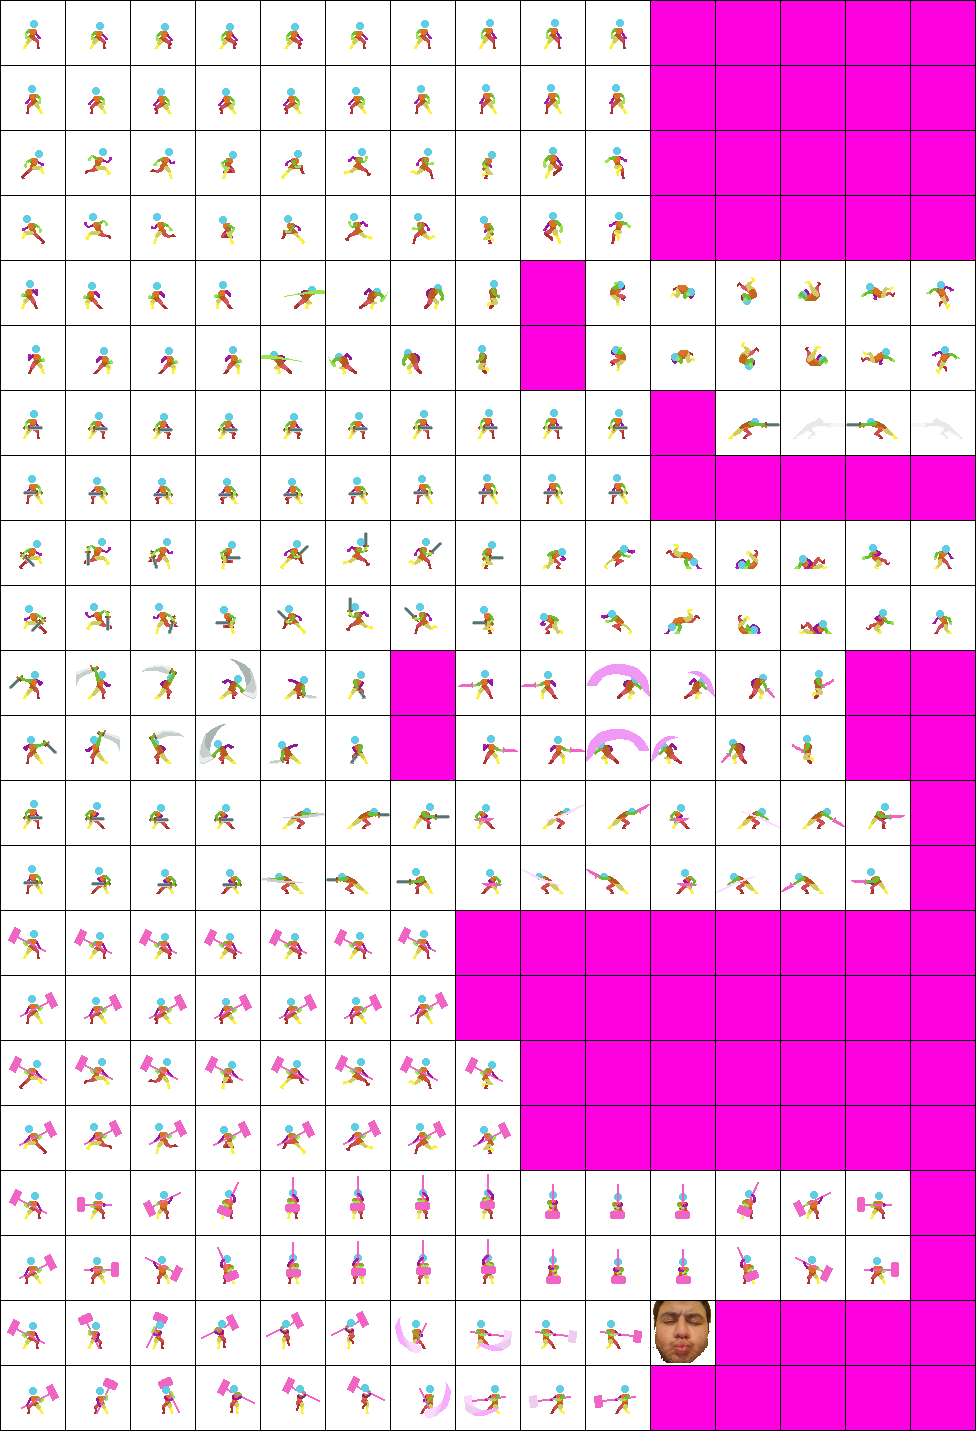
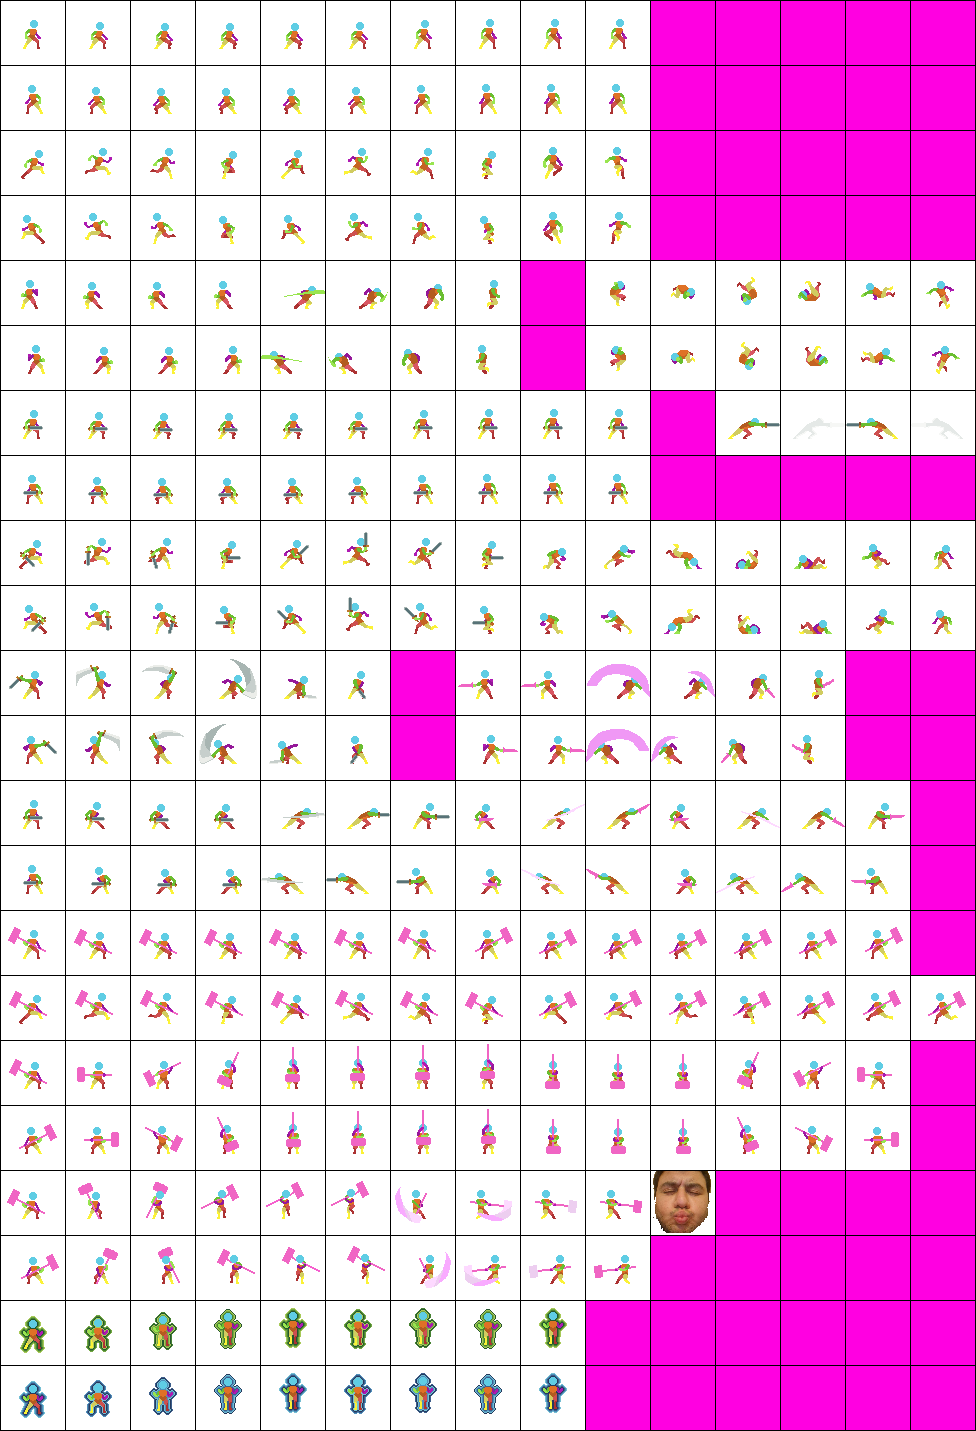
Added new player textures

diff --git a/GameProject2023/src/player_weapons/SwordWeapon.java b/GameProject2023/src/player_weapons/SwordWeapon.java
@@ -78,19 +78,23 @@ public class SwordWeapon extends Weapon {
 					weaponAbility.resetAnimations();
 			}
 
-			if (mouseInput.isAttackButtonPressed() && !abilities[0].isOnCooldown())
+			if (mouseInput.isAttackButtonPressed() && !abilities[SwordState.AttackChain1.index].isOnCooldown())
 				state = SwordState.AttackChain1;
-			else if (keyInput.isFirstAbilityKeyPressed() && !abilities[2].isOnCooldown())
-				state = SwordState.LightningDash;
-			//			else if (keyInput.isFirstAbilityKeyPressed() && !abilities[5].isOnCooldown())
-			//				state = SwordState.PoisonRatSummon;
-			//			else if (keyInput.isSecondAbilityKeyPressed() && !abilities[3].isOnCooldown())
+			//			else if (keyInput.isFirstAbilityKeyPressed() && !abilities[SwordState.LightningDash.index].isOnCooldown())
+			//				state = SwordState.LightningDash;
+			else if (keyInput.isFirstAbilityKeyPressed() && !abilities[SwordState.PoisonRatSummon.index].isOnCooldown())
+				state = SwordState.PoisonRatSummon;
+			//			else if (keyInput.isSecondAbilityKeyPressed() && !abilities[SwordState.SpikeChain.index].isOnCooldown())
 			//				state = SwordState.SpikeChain;
-			else if (keyInput.isSecondAbilityKeyPressed() && !abilities[4].isOnCooldown())
+			else if (keyInput.isSecondAbilityKeyPressed() && !abilities[SwordState.IceSwords.index].isOnCooldown())
 				state = SwordState.IceSwords;
 			break;
 
 		case AttackChain1:
+			// First stage of the basic attack chain.
+			// The player deals damage to all enemies in a short range.
+			// Player cannot move while the ability is being cast.
+			
 			currentAnimation = abilities[state.getIndex()].getAnimations()[getIndexFromDirection()];
 			if (currentAnimation.isPlayedOnce()) {
 				if (mouseInput.isAttackButtonPressed()) {
@@ -110,6 +114,10 @@ public class SwordWeapon extends Weapon {
 			break;
 
 		case AttackChain2:
+			// Second stage of the basic attack chain.
+			// The player deals damage to all enemies in a short range and knocks them back.
+			// Player cannot move while the ability is being cast.
+			
 			currentAnimation = abilities[state.getIndex()].getAnimations()[getIndexFromDirection()];
 			if (currentAnimation.isPlayedOnce()) {
 				abilities[SwordState.AttackChain1.getIndex()].startCooldown();
@@ -124,6 +132,11 @@ public class SwordWeapon extends Weapon {
 			break;
 
 		case LightningDash:
+			// The player quickly dashes into the current direction and
+			// deals damage to enemies that it passes through.
+			// Then multiple lightning explosions happen in the dash path.
+			// Player moves in the dash direction while the ability is being cast.
+			
 			currentAnimation = abilities[state.getIndex()].getAnimations()[getIndexFromDirection()];
 			// Dash started
 			if (!dashing) {
@@ -185,6 +198,10 @@ public class SwordWeapon extends Weapon {
 			break;
 
 		case IceSwords:
+			// Spawns swords of ice that rotate around the player.
+			// The swords deal damage to enemies on contact.
+			// Player cannot move while the ability is being cast.
+			
 			currentAnimation = abilities[state.getIndex()].getAnimations()[getIndexFromDirection()];
 			if (currentAnimation.isPlayedOnce()) {
 				abilities[state.getIndex()].startCooldown();
@@ -192,6 +209,9 @@ public class SwordWeapon extends Weapon {
 				spawnedIceSwords = false;
 				break;
 			}
+
+			player.setVelX(0);
+			player.setVelY(0);
 
 			if (!spawnedIceSwords) {
 				spawnedIceSwords = true;
@@ -203,6 +223,11 @@ public class SwordWeapon extends Weapon {
 			break;
 
 		case PoisonRatSummon:
+			// Multiple poison rats get spawned around the player.
+			// Each rat starts running around and attacking enemies.
+			// Rats explode upyyon death, dealing damage to all enemies around them.
+			// Player cannot move while the ability is being cast.
+			
 			currentAnimation = abilities[state.getIndex()].getAnimations()[getIndexFromDirection()];
 			if (currentAnimation.isPlayedOnce()) {
 				abilities[state.getIndex()].startCooldown();
@@ -210,6 +235,9 @@ public class SwordWeapon extends Weapon {
 				spawnedPoisonRats = false;
 				break;
 			}
+
+			player.setVelX(0);
+			player.setVelY(0);
 
 			if (!spawnedPoisonRats) {
 				spawnedPoisonRats = true;
@@ -338,19 +366,20 @@ public class SwordWeapon extends Weapon {
 		};
 		abilities[3] = new WeaponAbility(2000, 15, tempAnims2);
 
-		// TODO Ice sword ability
-		Animation[] tempAnims3 = new Animation[] {
-				new Animation(tex.getTexturesByDirection(TextureName.PlayerHammerSwing, 1), stabDelay, true),
-				new Animation(tex.getTexturesByDirection(TextureName.PlayerHammerSwing, -1), stabDelay, true),
+		// Ice sword ability
+		int glowDelay = 6;
+		Animation[] iceGlowAnims = new Animation[] {
+				new Animation(tex.getTextures(TextureName.PlayerIceGlow), glowDelay, true),
+				new Animation(tex.getTextures(TextureName.PlayerIceGlow), glowDelay, true),
 		};
-		abilities[4] = new WeaponAbility(2000, 5, tempAnims3);
+		abilities[4] = new WeaponAbility(2000, 5, iceGlowAnims);
 
-		// TODO Poison Rat Summon Ability
-		Animation[] tempAnims4 = new Animation[] {
-				new Animation(tex.getTexturesByDirection(TextureName.PlayerHammerSwing, 1), stabDelay, true),
-				new Animation(tex.getTexturesByDirection(TextureName.PlayerHammerSwing, -1), stabDelay, true),
+		// Poison Rat Summon Ability
+		Animation[] poisonGlowAnims = new Animation[] {
+				new Animation(tex.getTextures(TextureName.PlayerPoisonGlow), glowDelay, true),
+				new Animation(tex.getTextures(TextureName.PlayerPoisonGlow), glowDelay, true),
 		};
-		abilities[5] = new WeaponAbility(2000, 5, tempAnims4);
+		abilities[5] = new WeaponAbility(2000, 5, poisonGlowAnims);
 	}
 
 	private int getIndexFromDirection() {

diff --git a/GameProject2023/src/framework/TextureLoader.java b/GameProject2023/src/framework/TextureLoader.java
@@ -19,6 +19,8 @@ public class TextureLoader {
 		PlayerJump,
 		PlayerDoubleJump,
 		PlayerDodge,
+		PlayerPoisonGlow,
+		PlayerIceGlow,
 		
 		PlayerSwordIdle,
 		PlayerSwordRun,
@@ -160,6 +162,16 @@ public class TextureLoader {
 				textures[i] = playerSheet.getSubimage(521 + i * 65, 521, 64, 64);
 				textures[i + 7] = playerSheet.getSubimage(521 + i * 65, 586, 64, 64);
 			}
+			break;
+		case PlayerPoisonGlow:
+			textures = new BufferedImage[9];
+			for (int i = 0; i < textures.length; i++)
+				textures[i] = playerSheet.getSubimage(1 + i * 65, 1301, 64, 64);
+			break;
+		case PlayerIceGlow:
+			textures = new BufferedImage[9];
+			for (int i = 0; i < textures.length; i++)
+				textures[i] = playerSheet.getSubimage(1 + i * 65, 1366, 64, 64);
 			break;
 		case PlayerSwordIdle:
 			textures = new BufferedImage[20];
